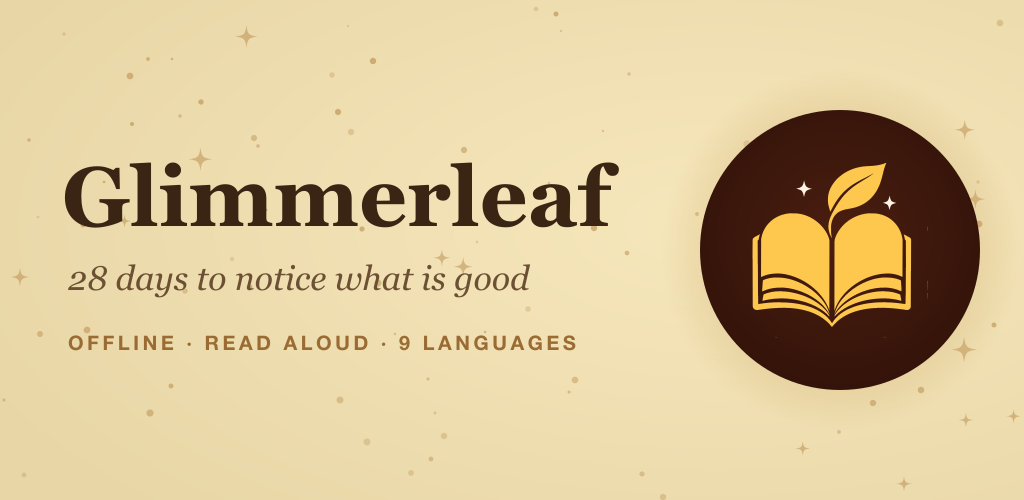
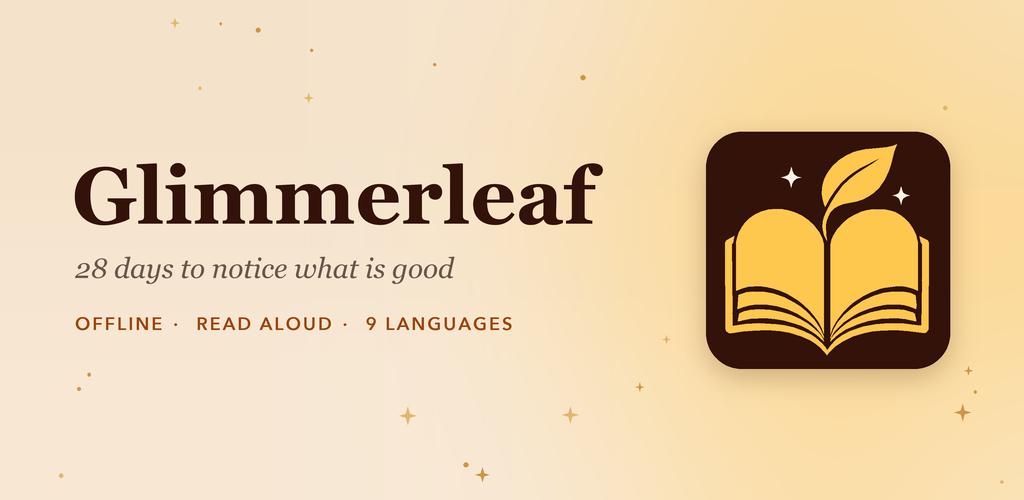
Add Play Store screenshots, listing guide and final feature graphic
- store/screenshots: 7 phone screenshots at 1080x1920 (Today, practice,
  daily gratitude, journal, insights, history, themes in night mode)
- store/PLAY_CONSOLE.md: step-by-step publishing guide for an organisation
  account, with listing text, App content and Data safety answers, and
  release steps
- Feature graphic: the app-icon rounded square with the cleaned-up logo
- README links to the guide

diff --git a/store/PLAY_CONSOLE.md b/store/PLAY_CONSOLE.md
@@ -1,0 +1,162 @@
+# Publishing Glimmerleaf on Google Play (organisation account)
+
+Everything Play asks for, in the order the Console asks for it. Copy the text blocks as they are.
+
+## What you need
+
+| Item | Where it is |
+| --- | --- |
+| App bundle (v1.0.0, versionCode 1) | `release/glimmerleaf-1.0.0-1.aab` (rebuild with `./gradlew bundleRelease`) |
+| Upload key | `~/AndroidKeys/glimmerleaf-upload.jks`, alias `upload`, password in `keystore.properties` |
+| App icon 512 × 512 | `store/play_icon_512.png` |
+| Feature graphic 1024 × 500 | `store/play_feature_1024x500.png` |
+| Phone screenshots 1080 × 1920 (7) | `store/screenshots/` |
+| Privacy policy URL | `https://sjpix7.github.io/GlimmerLeaf/privacy.html` (after GitHub Pages is on) |
+
+> **Back up the upload key now.** Copy `glimmerleaf-upload.jks` and the password from `keystore.properties` into your password manager. Every future update must be signed with this key. If it is lost, Google can reset it, but only after a support request.
+
+Organisation accounts don't have the "12 testers for 14 days" closed-test rule that applies to new personal accounts, so you can publish straight to production.
+
+---
+
+## 1. Turn on the privacy policy page
+
+1. Make sure the GitHub repository `sjpix7/GlimmerLeaf` is **public** (GitHub Pages on a private repo needs a paid plan).
+2. GitHub → repository → **Settings → Pages** → Source: **Deploy from a branch**, Branch: **main**, folder **/docs** → Save.
+3. After a minute, open `https://sjpix7.github.io/GlimmerLeaf/privacy.html` and check that it loads.
+
+## 2. Create the app
+
+Play Console → **Create app**:
+
+- App name: `Glimmerleaf: Gratitude Journal`
+- Default language: English (United States) – en-US
+- App or game: **App**
+- Free or paid: **Free** (this can't be changed to paid later)
+- Tick the two declarations (Developer Program Policies, US export laws) → **Create app**
+
+## 3. App content (Policy → App content)
+
+| Form | Answer |
+| --- | --- |
+| Privacy policy | `https://sjpix7.github.io/GlimmerLeaf/privacy.html` |
+| App access | **All functionality is available without any access restrictions** |
+| Ads | **No, my app does not contain ads** |
+| Content rating | Start the questionnaire, category **All other app types**. Answer **No** to violence, sexuality, language, controlled substances, gambling, user-to-user interaction, sharing location and digital purchases. Expected result: Everyone / PEGI 3. |
+| Target audience | Ages **13–15, 16–17 and 18+** (don't tick under 13, which would bring in the Families policy). "Could the app unintentionally appeal to children?" **No** |
+| News app | **No** |
+| Data safety | See below |
+| Advertising ID | **No**, the app doesn't use an advertising ID |
+| Government app | **No** |
+| Financial features | **My app doesn't provide any financial features** |
+| Health | Read the definitions. Glimmerleaf is a gratitude journal with an optional mood emoji; it gives no medical, therapy or diagnosis features. If the form requires a choice, pick the option closest to general wellness/journaling, or "no health features" if none fits. |
+
+### Data safety
+
+- Does your app collect or share any of the required user data types? **No**
+  (Everything stays in the app's storage on the device; Android's own device backup doesn't count as collection by the developer.)
+- Is all user data encrypted in transit? Not applicable (nothing is transmitted). If the form still asks, nothing leaves the device.
+- Account deletion: not applicable (there are no accounts).
+- Preview the summary: it should read **"No data collected · No data shared"** → Submit.
+
+### Permissions you may be asked about
+
+- `SCHEDULE_EXACT_ALARM`: optional, lets practice reminders arrive on time; the user grants it in Settings. (No declaration is needed for this one; only `USE_EXACT_ALARM` needs one, and the app doesn't use it.)
+- `POST_NOTIFICATIONS`, `RECEIVE_BOOT_COMPLETED`: daily reminders, restored after a restart.
+
+## 4. Store settings (Grow → Store presence → Store settings)
+
+- Category: **Lifestyle** (Health & Fitness also fits, but brings more health-policy questions)
+- Tags: Journal, Self-care, Wellness (pick what Play offers)
+- Contact email: an address you check (shown publicly)
+- Website: `https://sjpixels.com/`
+
+## 5. Main store listing (Grow → Store presence → Main store listing)
+
+**App name** (30 max)
+
+```
+Glimmerleaf: Gratitude Journal
+```
+
+**Short description** (80 max)
+
+```
+28 days of small gratitude practices, a daily journal and gentle reminders.
+```
+
+**Full description** (4000 max)
+
+```
+What did you notice today?
+
+Glimmerleaf is a calm, beautiful gratitude journal built around The 28-Day Gratitude Journey: one short practice a day that trains your heart to notice what is good.
+
+THE 28-DAY JOURNEY
+• Four weeks: Noticing, Connection, Body, Home & World, and Transformation
+• Each day has a short introduction, four simple steps and an affirmation to carry with you
+• Days unlock in order, so the practice builds gently; repeat any day you love
+• A morning ritual (Five Thanks) and an evening ritual (The Golden Moment)
+
+WRITE IT DOWN
+• A guided journal for every practice, with as many lines as you need
+• Daily gratitude: list today's small wins and what you're grateful for
+• Gratitude journal: write freely whenever your heart is full, as often as you like, and edit or delete entries later
+• Pick a mood after each practice
+
+LISTEN
+• Have any practice read aloud by your phone's own offline voice
+• Choose a female or male voice and the reading speed
+
+GENTLE REMINDERS
+• Reminders every few hours until the day's practice is done
+• Choose the first and last reminder time and how often they come
+
+SEE YOUR PROGRESS
+• History of every journey, day, daily list and journal entry
+• Insights: streaks, sessions, a mood chart and an activity calendar that goes back to the day you installed the app
+
+MAKE IT YOURS
+• 7 colour themes, each with a day and a night mode
+• 9 languages: English, हिन्दी, Deutsch, Español, 日本語, Русский, Français, 中文, 한국어
+
+PRIVATE BY DESIGN
+• Works fully offline
+• No accounts, no ads, no tracking
+• Your notes stay on your phone and in your own device backup
+
+Created with love by sj.pixels.
+```
+
+**Graphics**
+
+- App icon: `store/play_icon_512.png`
+- Feature graphic: `store/play_feature_1024x500.png`
+- Phone screenshots: upload all 7 from `store/screenshots/` in order (01 to 07)
+- Tablet screenshots: optional; skip them for now
+
+## 6. Upload the release
+
+Recommended: send it to **Internal testing** first (Testing → Internal testing). It usually goes live within minutes and lets you install it from the Play Store on your own phone. Then promote the same release to Production.
+
+1. **Testing → Internal testing → Create new release**
+2. App signing: accept **Google Play App Signing** (default). Google keeps the app signing key; you sign uploads with your upload key.
+3. Upload `release/glimmerleaf-1.0.0-1.aab`
+4. Release name: `1.0.0 (1)`
+5. Release notes:
+
+   ```
+   <en-US>
+   First release of Glimmerleaf: the 28-day gratitude journey, daily gratitude, a free-writing journal, read-aloud, reminders, insights, 7 themes and 9 languages.
+   </en-US>
+   ```
+
+6. **Next → Save → Testers**: create an email list with your own Google account, copy the opt-in link, open it on your phone and install.
+7. When it looks right: **Production → Create new release → Add from library** (pick the same bundle) → Countries/regions: **Add all** → **Review release → Start rollout to production**.
+8. Go to **Publishing overview** → **Send for review**. The first review for a new app usually takes a few days.
+
+## 7. Future updates
+
+1. Increase `versionCode` (and `versionName`) in `app/build.gradle.kts`.
+2. `./gradlew bundleRelease` (uses `keystore.properties` automatically).
+3. Upload `app/build/outputs/bundle/release/app-release.aab` as a new release.

diff --git a/README.md b/README.md
@@ -121,6 +121,8 @@ Or build from the command line:
 
 ## 🚀 Publish to Google Play
 
+> 📋 **Step-by-step Play Console guide, with ready-to-paste listing text and every App content answer:** [`store/PLAY_CONSOLE.md`](store/PLAY_CONSOLE.md). The privacy policy is served from [`docs/privacy.html`](docs/privacy.html) via GitHub Pages.
+
 <details>
 <summary><b>Step-by-step guide</b> (click to expand)</summary>
 
@@ -145,7 +147,7 @@ Or build from the command line:
    > ⚠ `keystore.properties`, `*.jks` and `*.keystore` are in `.gitignore`. Never commit them.
 
 3. **🏪 Play Console:** create the app, upload the `.aab`, and fill in:
-   - **Store listing:** `store/play_icon_512.png`, `store/play_feature_1024x500.png`, and 2–8 phone screenshots.
+   - **Store listing:** `store/play_icon_512.png`, `store/play_feature_1024x500.png`, and the phone screenshots in `store/screenshots/`.
    - **Privacy policy:** required. A ready-to-host text is in `PRIVACY.md`.
    - **Data safety:** the app collects and shares **no data**.
    - **Content rating:** no objectionable content.
